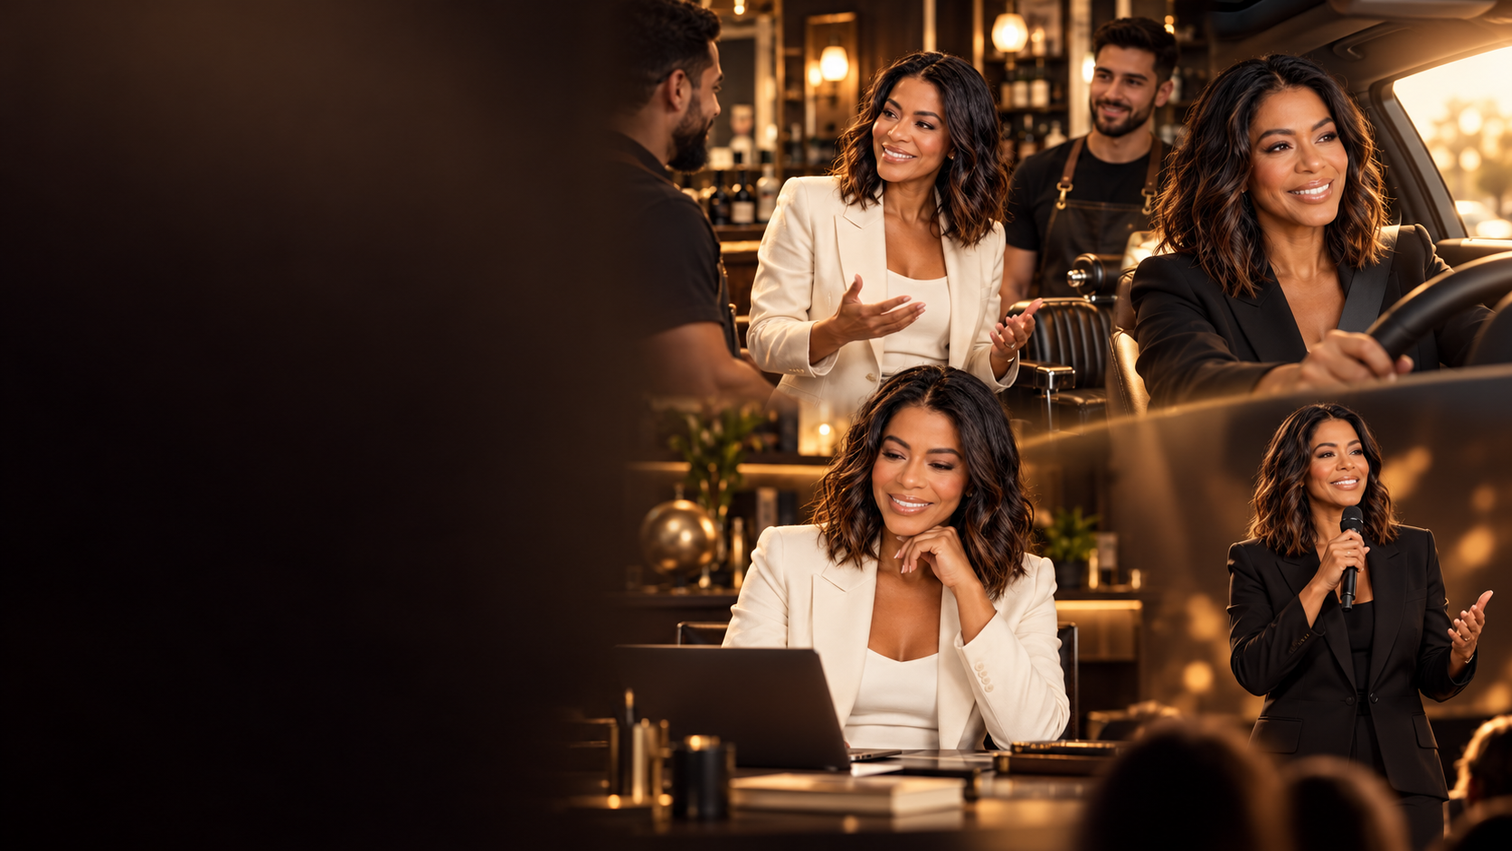
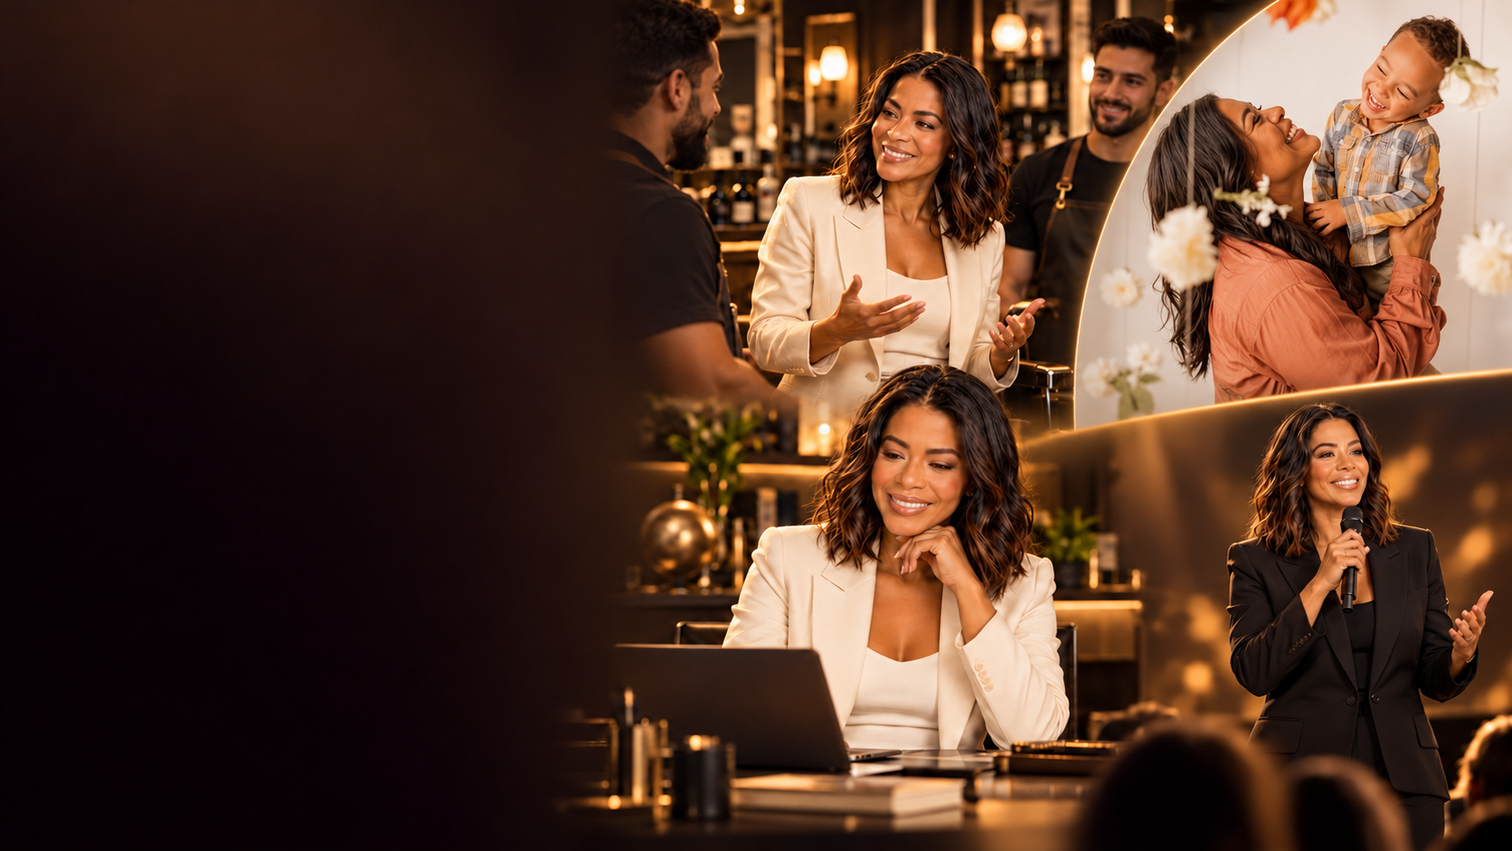
Atualiza apresentacao com pitch expandido da BIA 360, mockups e condicao de fundador

diff --git a/index.html b/index.html
@@ -30,19 +30,22 @@
 <section class="slide bia-video" data-title="A BIA se apresenta"><div class="content"><p class="eyebrow">COM A PALAVRA</p><h2>A BIA se <em>apresenta.</em></h2><p class="lede">Uma conversa sobre como ela pode ajudar no seu negócio.</p><div class="video-wrap"><video id="biaVideo" controls playsinline preload="metadata" aria-label="Vídeo de apresentação da BIA"><source src="assets/bia-apresentacao.mp4" type="video/mp4"></video><p id="videoFallback">Vídeo indisponível. A Rose pode continuar a apresentação.</p></div><button id="videoFull" class="video-full-btn" type="button">Assistir em tela cheia</button><p id="videoMessage" class="video-message" aria-live="polite"></p></div></section>
 <section class="slide bia-dark" data-title="A conversa continua"><div class="content"><p class="eyebrow">NO WHATSAPP</p><h2>Uma conversa pode começar enquanto você <em>cuida do seu trabalho.</em></h2><div class="conversation"><p>“Quero saber mais sobre o curso.”</p><p>“Vou te mostrar as informações.”</p></div><small>Exemplo ilustrativo de conversa.</small></div></section>
 <section class="slide light" data-title="Conhecimento"><div class="content"><p class="eyebrow">O SEU NEGÓCIO, SUAS INFORMAÇÕES</p><h2>A BIA pode conhecer<br>o que você <em>oferece.</em></h2><div class="three-lines"><span>Seus cursos e produtos</span><span>Informações e condições de cada oferta</span><span>Orientações para as conversas</span></div></div></section>
-<section class="slide bia-dark" data-title="Para quem"><div class="content"><p class="eyebrow">PENSADA PARA A SUA ROTINA</p><h2>Cada negócio tem<br><em>suas conversas.</em></h2><div class="audiences"><div><b>BARBEARIA</b><span>Atendimento e agenda</span></div><div><b>ESCOLA</b><span>Interesse em cursos e turmas</span></div><div><b>HÍBRIDO</b><span>As duas frentes no mesmo negócio</span></div></div></div></section>
+<section class="slide bia-dark" data-title="Para quem"><div class="content"><p class="eyebrow">PENSADA PARA A SUA ROTINA</p><h2>Cada negócio tem<br><em>suas conversas.</em></h2><div class="audiences"><div><b>BARBEARIA</b><span>Atendimento, agenda e comissões</span></div><div><b>EDUCADOR</b><span>Cursos, workshops e turmas</span></div><div><b>HÍBRIDO</b><span>As duas frentes no mesmo negócio</span></div></div></div></section>
 <section class="slide bia-dark" data-title="BIA para barbearias"><div class="content"><p class="eyebrow">A ROTINA DA BARBEARIA</p><h2>Mais organização<br>entre uma conversa<br>e <em>outra.</em></h2><div class="three-lines"><span>Atendimento com IA e transferência para a equipe</span><span>Agenda por serviço e profissional</span><span>Cadastro e histórico de clientes</span></div><small>Recursos variam por plano e disponibilidade.</small></div></section>
-<section class="slide light" data-title="BIA para escolas"><div class="content"><p class="eyebrow">PARA QUEM ENSINA</p><h2>Do interesse<br>à próxima <em>turma.</em></h2><div class="three-lines"><span>Cursos, ofertas e datas</span><span>Acompanhamento de interessados</span><span>Organização de turmas e vagas</span></div><small>Recursos variam por plano e disponibilidade.</small></div></section>
-<section class="slide bia-dark gestao" data-title="Gestão e relacionamento"><div class="content"><p class="eyebrow">MAIS DO SEU NEGÓCIO EM UM SÓ LUGAR</p><h2>Uma visão da<br><em>sua operação.</em></h2><div class="three-lines"><span>Conversas e informações de clientes</span><span>Painel pelo navegador e gestão conectada ao WhatsApp</span><span>Caixa, comissões e estoque na evolução da plataforma</span></div><small>Algumas funcionalidades estão em desenvolvimento. Disponibilidade será informada antes da contratação.</small></div><div class="operation-visual" aria-hidden="true"><div class="operation-orbit"></div><div class="operation-card"><span>VISÃO DO NEGÓCIO</span><b>Conversas</b><i></i><i></i><i></i><div class="operation-pills"><span>Clientes</span><span>Agenda</span></div></div></div></section>
+<section class="slide light" data-title="BIA para educadores"><div class="content"><p class="eyebrow">PARA QUEM ENSINA</p><h2>Do interesse<br>à próxima <em>turma.</em></h2><div class="three-lines"><span>Cursos presenciais, workshops e mentorias</span><span>Acompanhamento e qualificação de alunos</span><span>Organização de turmas e controle de vagas</span></div><small>Recursos variam por plano e disponibilidade.</small></div></section>
+<section class="slide bia-dark gestao" data-title="Gestão e relacionamento"><div class="content"><p class="eyebrow">MAIS DO SEU NEGÓCIO EM UM SÓ LUGAR</p><h2>Uma visão da<br><em>sua operação.</em></h2><div class="three-lines"><span>Comandos de gestão por áudio direto no WhatsApp</span><span>Painel do gestor com métricas e fechamento de comandas</span><span>Cálculo automático de comissões líquidas da equipe</span></div><small>Tecnologia desenhada para quem vive a barbearia na prática.</small></div><div class="operation-visual" aria-hidden="true"><div class="operation-orbit"></div><div class="operation-card"><span>VISÃO DO NEGÓCIO</span><b>Comandas</b><i></i><i></i><i></i><div class="operation-pills"><span>WhatsApp</span><span>Caixa</span></div></div></div></section>
 <section class="slide bia-dark visual-future" data-title="Visagismo"><div class="content"><p class="eyebrow">O QUE PODE VIR PELA FRENTE</p><h2>Novas ideias para o <em>visagismo.</em></h2><p class="lede">Explorar sugestões visuais para apoiar o olhar do profissional.</p><div class="comparison"><img src="assets/visagismo-antes-depois.png" alt="Exemplo ilustrativo de um corte e barba antes e depois"><div class="comparison-labels"><span>ANTES</span><span>DEPOIS</span></div></div><small>Imagem ilustrativa. Ideia em desenvolvimento e avaliação, ainda não disponível. Não substitui a avaliação profissional.</small></div></section>
 <section class="slide bia-dark visual-future" data-title="Colorimetria"><div class="content"><p class="eyebrow">O QUE PODE VIR PELA FRENTE</p><h2>Possibilidades em <em>colorimetria.</em></h2><p class="lede">Explorar cores e referências para apoiar o trabalho do profissional.</p><div class="comparison"><img src="assets/colorimetria-antes-depois.png" alt="Exemplo ilustrativo de cabelo antes e depois de uma mudança de cor"><div class="comparison-labels"><span>ANTES</span><span>DEPOIS</span></div></div><small>Imagem ilustrativa. Ideia em desenvolvimento e avaliação, ainda não disponível. Não substitui a avaliação profissional.</small></div></section>
-<section class="slide bia-dark offer" data-title="Oferta de lançamento"><div class="content"><p class="eyebrow">CONDIÇÃO DE LANÇAMENTO</p><h2>Escolha a BIA<br>para <em>o seu negócio.</em></h2><div class="price-grid"><div><b>Barbearia</b><strong><small>R$</small> 199</strong><span>por mês</span></div><div><b>Escola</b><strong><small>R$</small> 299</strong><span>por mês</span></div><div><b>Híbrido</b><strong><small>R$</small> 449</strong><span>por mês</span></div></div></div></section>
-<section class="slide bia-dark offer-detail" data-title="Plano Barbearia"><div class="content"><p class="eyebrow">PLANO BARBEARIA</p><h2>Atendimento e agenda<br>para o seu <em>negócio.</em></h2><p class="price-large">R$ 199 <span>/ mês</span></p><div class="three-lines"><span>IA com transferência para a equipe</span><span>Agenda por serviço e profissional</span><span>Cadastro e histórico de clientes</span></div></div></section>
-<section class="slide bia-dark offer-detail" data-title="Plano Escola"><div class="content"><p class="eyebrow">PLANO ESCOLA</p><h2>Mais clareza<br>para suas <em>turmas.</em></h2><p class="price-large">R$ 299 <span>/ mês</span></p><div class="three-lines"><span>Catálogo de cursos e datas</span><span>Funil de interessados</span><span>Organização de turmas e vagas</span></div></div></section>
-<section class="slide bia-dark offer-detail" data-title="Plano Híbrido"><div class="content"><p class="eyebrow">PLANO HÍBRIDO</p><h2>A cadeira e a sala<br>de aula <em>conectadas.</em></h2><p class="price-large">R$ 449 <span>/ mês</span></p><div class="three-lines"><span>Jornada de barbearia e escola</span><span>Atendimento com inteligência artificial</span><span>Agenda, clientes, turmas e interessados</span></div></div></section>
-<section class="slide closing" data-title="Encerramento"><div class="content"><p class="eyebrow">O PRÓXIMO PASSO É SEU</p><h2>Seu tempo<br>também <em>importa.</em></h2><p class="lede">Aponte a câmera e conheça os planos da BIA.</p><p class="short-url">biabarber.com.br</p><div class="rule"></div><p class="signature">Rose Barone</p></div><div class="qr-box"><img src="assets/qr-biabarber.png" alt="QR Code para biabarber.com.br"><span>CONHEÇA A BIA</span></div></section>
+<section class="slide bia-dark" data-title="Cliente Fundador VIP"><div class="content"><p class="eyebrow">LANÇAMENTO EXCLUSIVO // 01 DE DEZEMBRO</p><h2>Você no grupo dos<br><em>embaixadores pioneiros.</em></h2><div class="founder-box"><div class="founder-card"><div class="founder-badge-tag">CLIENTE FUNDADOR VIP</div><h3>Ambiente Dedicado & Isolado</h3><p>Para assegurar máxima estabilidade, nossa equipe de engenharia realiza o provisionamento individual de infraestrutura e calibração de IA para a sua barbearia.</p><small>Liberação oficial de acessos e chaves: 01 de Dezembro.</small></div><div class="founder-card"><h3>O que você recebe no lote VIP:</h3><div class="founder-features"><div><b>✓</b><span>Credenciais exclusivas do Painel Web</span></div><div><b>✓</b><span>Conexão Oficial WhatsApp com API da Meta</span></div><div><b>✓</b><span>Biblioteca de Aulas e Tutoriais passo a passo</span></div><div><b>✓</b><span>Condição especial e taxa mensal congelada por 12 meses</span></div></div></div></div></div></section>
+<section class="slide bia-dark offer" data-title="Oferta de lançamento"><div class="content"><p class="eyebrow">CONDIÇÃO DE CLIENTE FUNDADOR</p><h2>Escolha a BIA<br>para <em>o seu negócio.</em></h2><div class="price-grid"><div><b>Barbearia</b><strong><small>R$</small> 199</strong><span>por mês</span></div><div><b>Educador</b><strong><small>R$</small> 299</strong><span>por mês</span></div><div><b>Híbrido</b><strong><small>R$</small> 449</strong><span>por mês</span></div></div><p class="offer-note">Taxa mensal promocional garantida por 12 meses para o lote de fundadores presenciais.</p></div></section>
+<section class="slide bia-dark" data-title="Plano Barbearia"><div class="content"><p class="eyebrow">PLANO BARBEARIA // R$ 199 / MÊS</p><h2>Sua secretária 24h<br>no <em>WhatsApp.</em></h2><div class="pitch-split"><div class="three-lines"><span><b>Atendimento IA 24/7</b>: acolhe clientes dia e noite, inclusive por áudio</span><span><b>Agenda Multisserviços Atômica</b>: sem conflito de cadeiras e horários</span><span><b>CRM e Ficha Técnica</b>: histórico do corte e preferências salvas</span><span><b>Comandas e Comissões</b>: apuração líquida e automática</span></div><div class="chat-container"><div class="chat-header"><img class="chat-avatar" src="assets/bia-barbeira.png" alt="BIA"><div class="chat-info"><b>BIA 360 // Barbearia</b><span>● Online agora</span></div></div><div class="chat-msg"><div class="bubble client">Fala Rose! Tem horário pra corte degradê e barba no sábado à tarde?<span class="time">14:32</span></div><div class="bubble bia">Fala, irmão! No sábado temos às 15h com o Gui ou às 16h30 com o Rafa. Qual horário você prefere?<span class="time">14:32</span></div><div class="bubble client">15h com o Gui fechou!<span class="time">14:33</span></div><div class="bubble bia">Combinado! Agendado corte degradê + barba para sábado às 15h. Te esperamos! ✂<span class="time">14:33</span></div></div><div class="chat-tag">⚡ Agendamento realizado 100% automático</div></div></div></div></section>
+<section class="slide bia-dark" data-title="Plano Educador"><div class="content"><p class="eyebrow">PLANO EDUCADOR // R$ 299 / MÊS</p><h2>Mais clareza e alunos<br>para suas <em>turmas.</em></h2><div class="pitch-split"><div class="three-lines"><span><b>Catálogo de Cursos e Workshops</b>: apresentação imediata de ofertas</span><span><b>Qualificação Comercial Automática</b>: responde dúvidas e cronogramas</span><span><b>Controle Estrito de Vagas</b>: sem risco de superlotação</span><span><b>Envio de Links de Pagamento</b>: converte o aluno na conversa</span></div><div class="chat-container"><div class="chat-header"><img class="chat-avatar" src="assets/bia-educadora.png" alt="BIA"><div class="chat-info"><b>BIA 360 // Cursos e Workshops</b><span>● Online agora</span></div></div><div class="chat-msg"><div class="bubble client">Olá! Ainda tem vaga pro Workshop de Visagismo do mês que vem?<span class="time">19:15</span></div><div class="bubble bia">Olá! Temos sim, mas restam apenas 3 vagas presenciais para essa turma! O workshop inclui certificado e prática na bancada. Deseja garantir sua vaga?<span class="time">19:15</span></div><div class="bubble client">Sim! Como faço para pagar?<span class="time">19:16</span></div><div class="bubble bia">Aqui está o seu link seguro de inscrição. Assim que confirmado, sua vaga fica reservada imediatamente! 🎓<span class="time">19:16</span></div></div><div class="chat-tag">🎓 Matrícula e vaga geradas automaticamente</div></div></div></div></section>
+<section class="slide bia-dark offer-detail" data-title="Plano Híbrido"><div class="content"><p class="eyebrow">PLANO HÍBRIDO // R$ 449 / MÊS</p><h2>A cadeira e a sala<br>de aula <em>conectadas.</em></h2><p class="price-large">R$ 449 <span>/ mês</span></p><div class="three-lines"><span><b>Todas as funções da Barbearia</b>: atendimento, agenda multisserviços, comissões e caixa</span><span><b>Todas as funções do Educador</b>: catálogo de cursos, qualificação de alunos e turmas</span><span><b>Uma única inteligência</b> cuidando das duas maiores fontes de receita da sua vida</span></div></div></section>
+<section class="slide bia-dark" data-title="A matemática do negócio"><div class="content"><p class="eyebrow">O CONTRASTE FINANCEIRO</p><h2>Uma secretária 24h<br>por <em>R$ 199 ao mês.</em></h2><div class="roi-grid"><div class="roi-card"><span class="roi-badge red">SECRETÁRIA CONVENCIONAL</span><h3>Atendimento Manual</h3><div class="roi-price"><small>R$</small> 2.500 <small>/ mês</small></div><ul><li><span>✕</span> Salário + encargos + VT e VR</li><li><span>✕</span> Não atende à noite nem nos fins de semana</li><li><span>✕</span> Atende apenas uma pessoa por vez</li><li><span>✕</span> Risco de faltas, atrasos e erros de comissão</li></ul></div><div class="roi-card highlight"><span class="roi-badge green">BIA 360 // BARBEARIA</span><h3>Inteligência Ativa</h3><div class="roi-price"><small>R$</small> 199 <small>/ mês</small></div><ul><li><span>✓</span> Menos de R$ 7 por dia</li><li><span>✓</span> Atendimento ativo 24 horas por dia, 7 dias por semana</li><li><span>✓</span> Atende dezenas de clientes simultâneos sem fila</li><li><span>✓</span> Se salvar apenas 2 cortes no mês, já está 100% paga</li></ul></div></div></div></section>
+<section class="slide bia-dark" data-title="Plano de ação até 01/12"><div class="content"><p class="eyebrow">ONBOARDING SIMPLES // ZERO DIFICULDADE</p><h2>O que deixar pronto<br>até <em>01 de Dezembro.</em></h2><div class="checklist-wrapper"><div class="checklist-items"><div class="check-item"><span class="check-num">1</span><span><b>Número oficial de WhatsApp</b> exclusivo da sua barbearia</span></div><div class="check-item"><span class="check-num">2</span><span><b>Tabela de serviços</b>, preços e durações exatas</span></div><div class="check-item"><span class="check-num">3</span><span><b>Relação da sua equipe</b> e percentuais de comissão</span></div><div class="check-item"><span class="check-num">4</span><span><b>Horários de atendimento</b> e regras de tolerância</span></div></div><div class="aulas-box"><div class="aulas-pill">▶ AULAS E TUTORIAIS INCLUÍDOS</div><b>Trilha Prática Passo a Passo</b><p>Vídeos curtos e objetivos dentro da plataforma ensinando exatamente onde cadastrar cada serviço, profissional e horário em poucos minutos.</p><small>Configuração autônoma, intuitiva e sem atrito.</small></div></div></div></section>
+<section class="slide closing" data-title="Encerramento"><div class="content"><p class="eyebrow">LOTE FUNDADOR EXCLUSIVO</p><h2>Seu tempo<br>também <em>importa.</em></h2><p class="lede">Aponte a câmera, garanta seu lote de Cliente Fundador e receba sua confirmação oficial no WhatsApp.</p><p class="short-url">biabarber.com.br</p><div class="rule"></div><p class="signature">Rose Barone</p></div><div class="qr-box"><img src="assets/qr-biabarber.png" alt="QR Code para biabarber.com.br"><span>GARANTA SEU LOTE</span></div></section>
 </main>
-<div class="controls" aria-label="Controles da apresentação"><button id="prev" aria-label="Slide anterior">←</button><span id="counter" aria-live="off">01 / 36</span><button id="next" aria-label="Próximo slide">→</button><button id="menuBtn" aria-expanded="false" aria-controls="menu">Slides</button><button id="fullscreen" aria-label="Tela cheia" title="Tela cheia">⛶</button></div>
+<div class="controls" aria-label="Controles da apresentação"><button id="prev" aria-label="Slide anterior">←</button><span id="counter" aria-live="off">01 / 39</span><button id="next" aria-label="Próximo slide">→</button><button id="menuBtn" aria-expanded="false" aria-controls="menu">Slides</button><button id="fullscreen" aria-label="Tela cheia" title="Tela cheia">⛶</button></div>
 <nav id="menu" aria-label="Escolher slide" hidden><div class="menu-head"><strong>Apresentação</strong><button id="closeMenu" aria-label="Fechar menu">×</button></div><div class="chapters"><button data-go="0">Palestra da Rose</button><button data-target="Conheça a BIA">Pitch da BIA</button></div><ol id="slideList"></ol></nav>
 <script src="app.js"></script>
 </body></html>

diff --git a/style.css b/style.css
@@ -58,3 +58,65 @@
 @media(min-width:701px){[data-title="Minha escolha"] .content{padding-right:52%}[data-title="Minha escolha"] h2{font-size:clamp(42px,4.7vw,75px)}}
 .bia-logo-mark{display:block;width:clamp(120px,16vw,240px);height:auto;margin-top:clamp(16px,3vh,30px)}
 @media(max-width:700px){.acrobata{background:linear-gradient(90deg,#130e0cf7,#130e0cda 70%,#130e0c55),url('assets/rose-acrobata-ampliada.png') right center/auto 100% no-repeat #130e0c}[data-title="Minha escolha"]{background:linear-gradient(90deg,#110c0af7,#110c0ad8 70%,#110c0a78),url('assets/rose-bia-parceria.png') 75% center/cover no-repeat #1d1512}.bia-logo-mark{width:clamp(110px,28vw,180px)}}
+
+
+/* --- Estilos Expandidos do Pitch BIA 360 --- */
+[data-title="BIA para educadores"]{color:#fff;background:linear-gradient(90deg,#130e19f7 0%,#130e19d9 35%,#130e1955 65%,#130e1910 100%),url('assets/bia-educadora.png') center/cover no-repeat #160d1b}
+[data-title="BIA para educadores"] .eyebrow{color:#d39de2}[data-title="BIA para educadores"] em{color:#d789ec}
+@media(min-width:701px){[data-title="BIA para educadores"] .content{padding-right:44%}[data-title="BIA para educadores"] h2{font-size:clamp(42px,5vw,84px)}}
+@media(max-width:700px){[data-title="BIA para educadores"]{background-position:63% center;background-image:linear-gradient(90deg,#120d19f7 0%,#120d19d0 65%,#120d1970 100%),url('assets/bia-educadora.png')}}
+
+/* Founder Status Card */
+.founder-box{display:grid;grid-template-columns:1.15fr 1fr;gap:clamp(18px,2.5vw,36px);margin-top:clamp(20px,3.5vh,38px)}
+.founder-card{background:linear-gradient(145deg,rgba(70,30,86,.45),rgba(23,17,29,.9));border:1px solid rgba(215,137,236,.35);border-radius:16px;padding:clamp(18px,2.2vw,28px);box-shadow:0 15px 45px rgba(0,0,0,.5)}
+.founder-badge-tag{display:inline-block;background:linear-gradient(90deg,#bf70d5,#e3b2ed);color:#170f1e;font-weight:700;font-size:clamp(11px,1vw,14px);letter-spacing:.15em;padding:5px 14px;border-radius:20px;margin-bottom:14px;text-transform:uppercase}
+.founder-card h3{font-family:Georgia,serif;font-size:clamp(22px,2.2vw,32px);margin:0 0 10px;color:#fff}
+.founder-card p{font-size:clamp(15px,1.25vw,19px);line-height:1.45;color:#e8ded0;margin:0 0 14px}
+.founder-features{display:grid;gap:10px;font-size:clamp(14px,1.2vw,18px)}
+.founder-features div{display:flex;align-items:flex-start;gap:10px;color:#f7f2ea}
+.founder-features div b{color:#d789ec;min-width:20px}
+
+/* Pitch Split com Mockup WhatsApp */
+.pitch-split{display:grid;grid-template-columns:1.05fr 1.15fr;gap:clamp(20px,3vw,45px);align-items:center;margin-top:clamp(15px,2.5vh,28px)}
+.chat-container{background:#111b21;border:1px solid #222e35;border-radius:18px;padding:clamp(14px,1.8vw,22px);box-shadow:0 24px 60px rgba(0,0,0,.65);font-family:Manrope,sans-serif}
+.chat-header{display:flex;align-items:center;gap:12px;padding-bottom:12px;border-bottom:1px solid #202c33;margin-bottom:14px}
+.chat-avatar{width:42px;height:42px;border-radius:50%;border:2px solid #25d366;object-fit:cover}
+.chat-info b{display:block;font-size:15px;color:#fff}
+.chat-info span{font-size:12px;color:#25d366}
+.chat-msg{display:flex;flex-direction:column;gap:10px}
+.bubble{max-width:88%;padding:10px 14px;border-radius:12px;font-size:clamp(13px,1.1vw,16px);line-height:1.35;position:relative}
+.bubble.client{align-self:flex-start;background:#202c33;color:#e9edef;border-top-left-radius:2px}
+.bubble.bia{align-self:flex-end;background:#005c4b;color:#e9edef;border-top-right-radius:2px}
+.bubble .time{display:block;font-size:10px;color:rgba(255,255,255,.55);text-align:right;margin-top:4px}
+.chat-tag{display:inline-block;margin-top:12px;background:rgba(215,137,236,.15);border:1px solid rgba(215,137,236,.3);padding:6px 12px;border-radius:8px;font-size:12px;color:#e3b2ed}
+
+/* ROI Comparativo */
+.roi-grid{display:grid;grid-template-columns:1fr 1fr;gap:clamp(18px,2.5vw,36px);margin-top:clamp(20px,3vh,34px)}
+.roi-card{padding:clamp(20px,2.5vw,32px);border-radius:16px;background:#181315;border:1px solid #3d2a23}
+.roi-card.highlight{background:linear-gradient(145deg,#32163d,#1a0f21);border:2px solid #bf70d5;box-shadow:0 0 40px rgba(191,112,213,.25)}
+.roi-card h3{font-family:Georgia,serif;font-size:clamp(22px,2.2vw,32px);margin:0 0 6px}
+.roi-card .roi-badge{display:inline-block;padding:4px 10px;border-radius:12px;font-size:12px;font-weight:700;letter-spacing:.1em;margin-bottom:10px;text-transform:uppercase}
+.roi-badge.red{background:#5c1a1a;color:#ffb3b3}
+.roi-badge.green{background:#164d30;color:#85f5be}
+.roi-card .roi-price{font:400 clamp(38px,4.5vw,66px) Georgia,serif;color:#e3b2ed;margin:10px 0}
+.roi-card .roi-price small{font:700 .45em Manrope}
+.roi-card ul{list-style:none;padding:0;margin:16px 0 0;display:grid;gap:10px;font-size:clamp(14px,1.2vw,18px)}
+.roi-card ul li{display:flex;align-items:flex-start;gap:10px}
+.roi-card ul li span{min-width:20px;font-weight:700}
+.roi-card.highlight ul li span{color:#85f5be}
+.roi-card:not(.highlight) ul li span{color:#ff8585}
+
+/* Checklist Onboarding */
+.checklist-wrapper{display:grid;grid-template-columns:1.2fr 1fr;gap:clamp(20px,3vw,38px);margin-top:clamp(20px,3vh,32px)}
+.checklist-items{display:grid;gap:10px}
+.check-item{display:flex;align-items:center;gap:14px;background:rgba(255,255,255,.04);border:1px solid rgba(215,137,236,.2);padding:12px 18px;border-radius:10px;font-size:clamp(14px,1.2vw,18px)}
+.check-num{background:#bf70d5;color:#fff;font-weight:700;width:28px;height:28px;border-radius:50%;display:grid;place-items:center;font-size:13px;flex-shrink:0}
+.aulas-box{background:linear-gradient(145deg,#2c1638,#160d1b);border:1px solid #bf70d5;border-radius:14px;padding:clamp(20px,2.5vw,30px);display:flex;flex-direction:column;justify-content:center}
+.aulas-box b{font-size:clamp(18px,1.8vw,26px);color:#fff;display:block;margin-bottom:8px}
+.aulas-box p{font-size:clamp(14px,1.2vw,17px);line-height:1.45;color:#e4d7e8;margin:0 0 14px}
+.aulas-box .aulas-pill{display:inline-flex;align-items:center;gap:8px;background:rgba(255,255,255,.1);padding:6px 14px;border-radius:20px;font-size:13px;color:#d789ec;font-weight:700}
+
+@media(max-width:700px){
+  .founder-box,.pitch-split,.roi-grid,.checklist-wrapper{grid-template-columns:1fr;gap:14px}
+  .founder-card,.roi-card,.chat-container,.aulas-box{padding:16px}
+}

diff --git a/app.js b/app.js
@@ -31,7 +31,7 @@
     const title = slide.dataset.title;
     if (title === 'Abertura') return 'rose-retrato.png';
     if (title === 'Muitos papéis' || title === 'Sonhos realizados') return window.matchMedia('(min-width: 701px) and (max-aspect-ratio: 3/2)').matches ? 'familia-ambiente-43.png' : 'familia-ambiente.png';
-    return ({ 'Mulher polvo': 'rose-metafora-polvo.png', 'Equilibrar': 'rose-acrobata-ampliada.png', 'A virada': 'rose-reflexao.png', 'Não cabe tudo': 'rose-varios-lugares.png', 'Minha escolha': 'rose-bia-parceria.png', 'Conheça a BIA': 'bia.png', 'BIA para barbearias': 'bia-barbeira.png', 'BIA para escolas': 'bia-educadora.png', 'Visagismo': 'visagismo-antes-depois.png', 'Colorimetria': 'colorimetria-antes-depois.png', 'Encerramento': 'qr-biabarber.png' })[title];
+    return ({ 'Mulher polvo': 'rose-metafora-polvo.png', 'Equilibrar': 'rose-acrobata-ampliada.png', 'A virada': 'rose-reflexao.png', 'Não cabe tudo': 'rose-varios-lugares.png', 'Minha escolha': 'rose-bia-parceria.png', 'Conheça a BIA': 'bia.png', 'BIA para barbearias': 'bia-barbeira.png', 'BIA para escolas': 'bia-educadora.png', 'BIA para educadores': 'bia-educadora.png', 'Visagismo': 'visagismo-antes-depois.png', 'Colorimetria': 'colorimetria-antes-depois.png', 'Encerramento': 'qr-biabarber.png' })[title];
   }
   const clamp = n => Math.max(0, Math.min(slides.length - 1, n));
   function show(n, update = true, fromGesture = false) {
